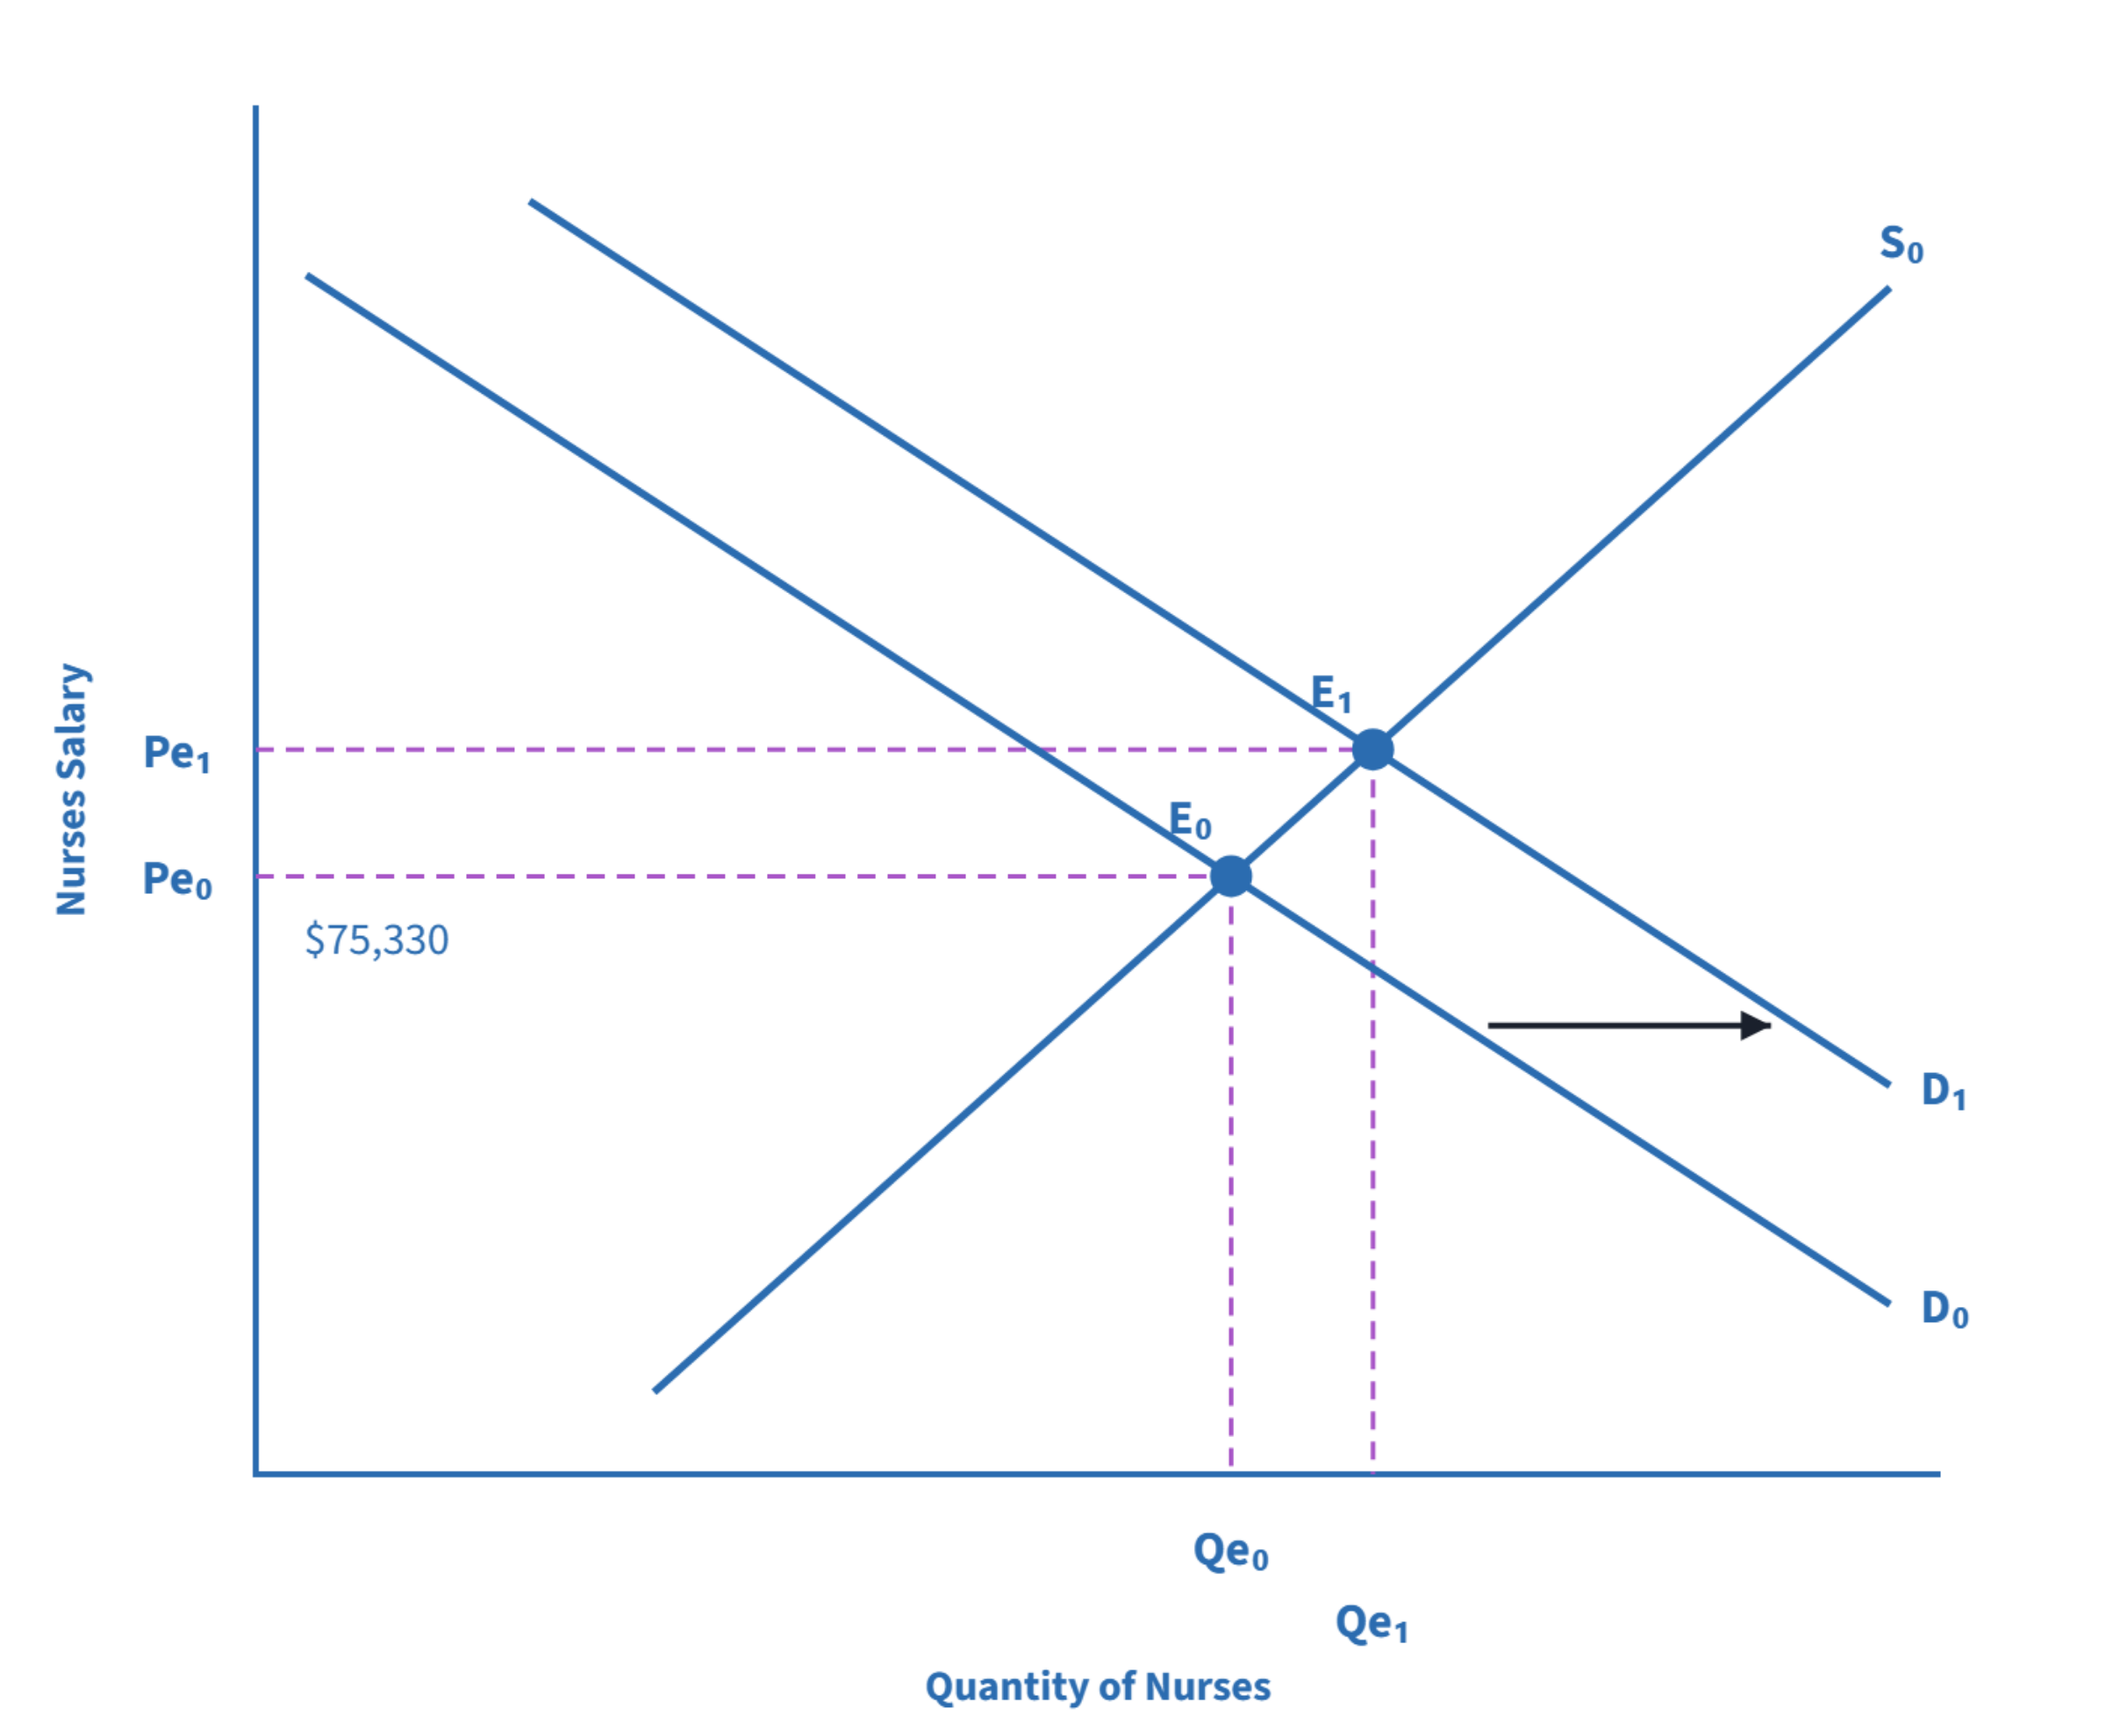
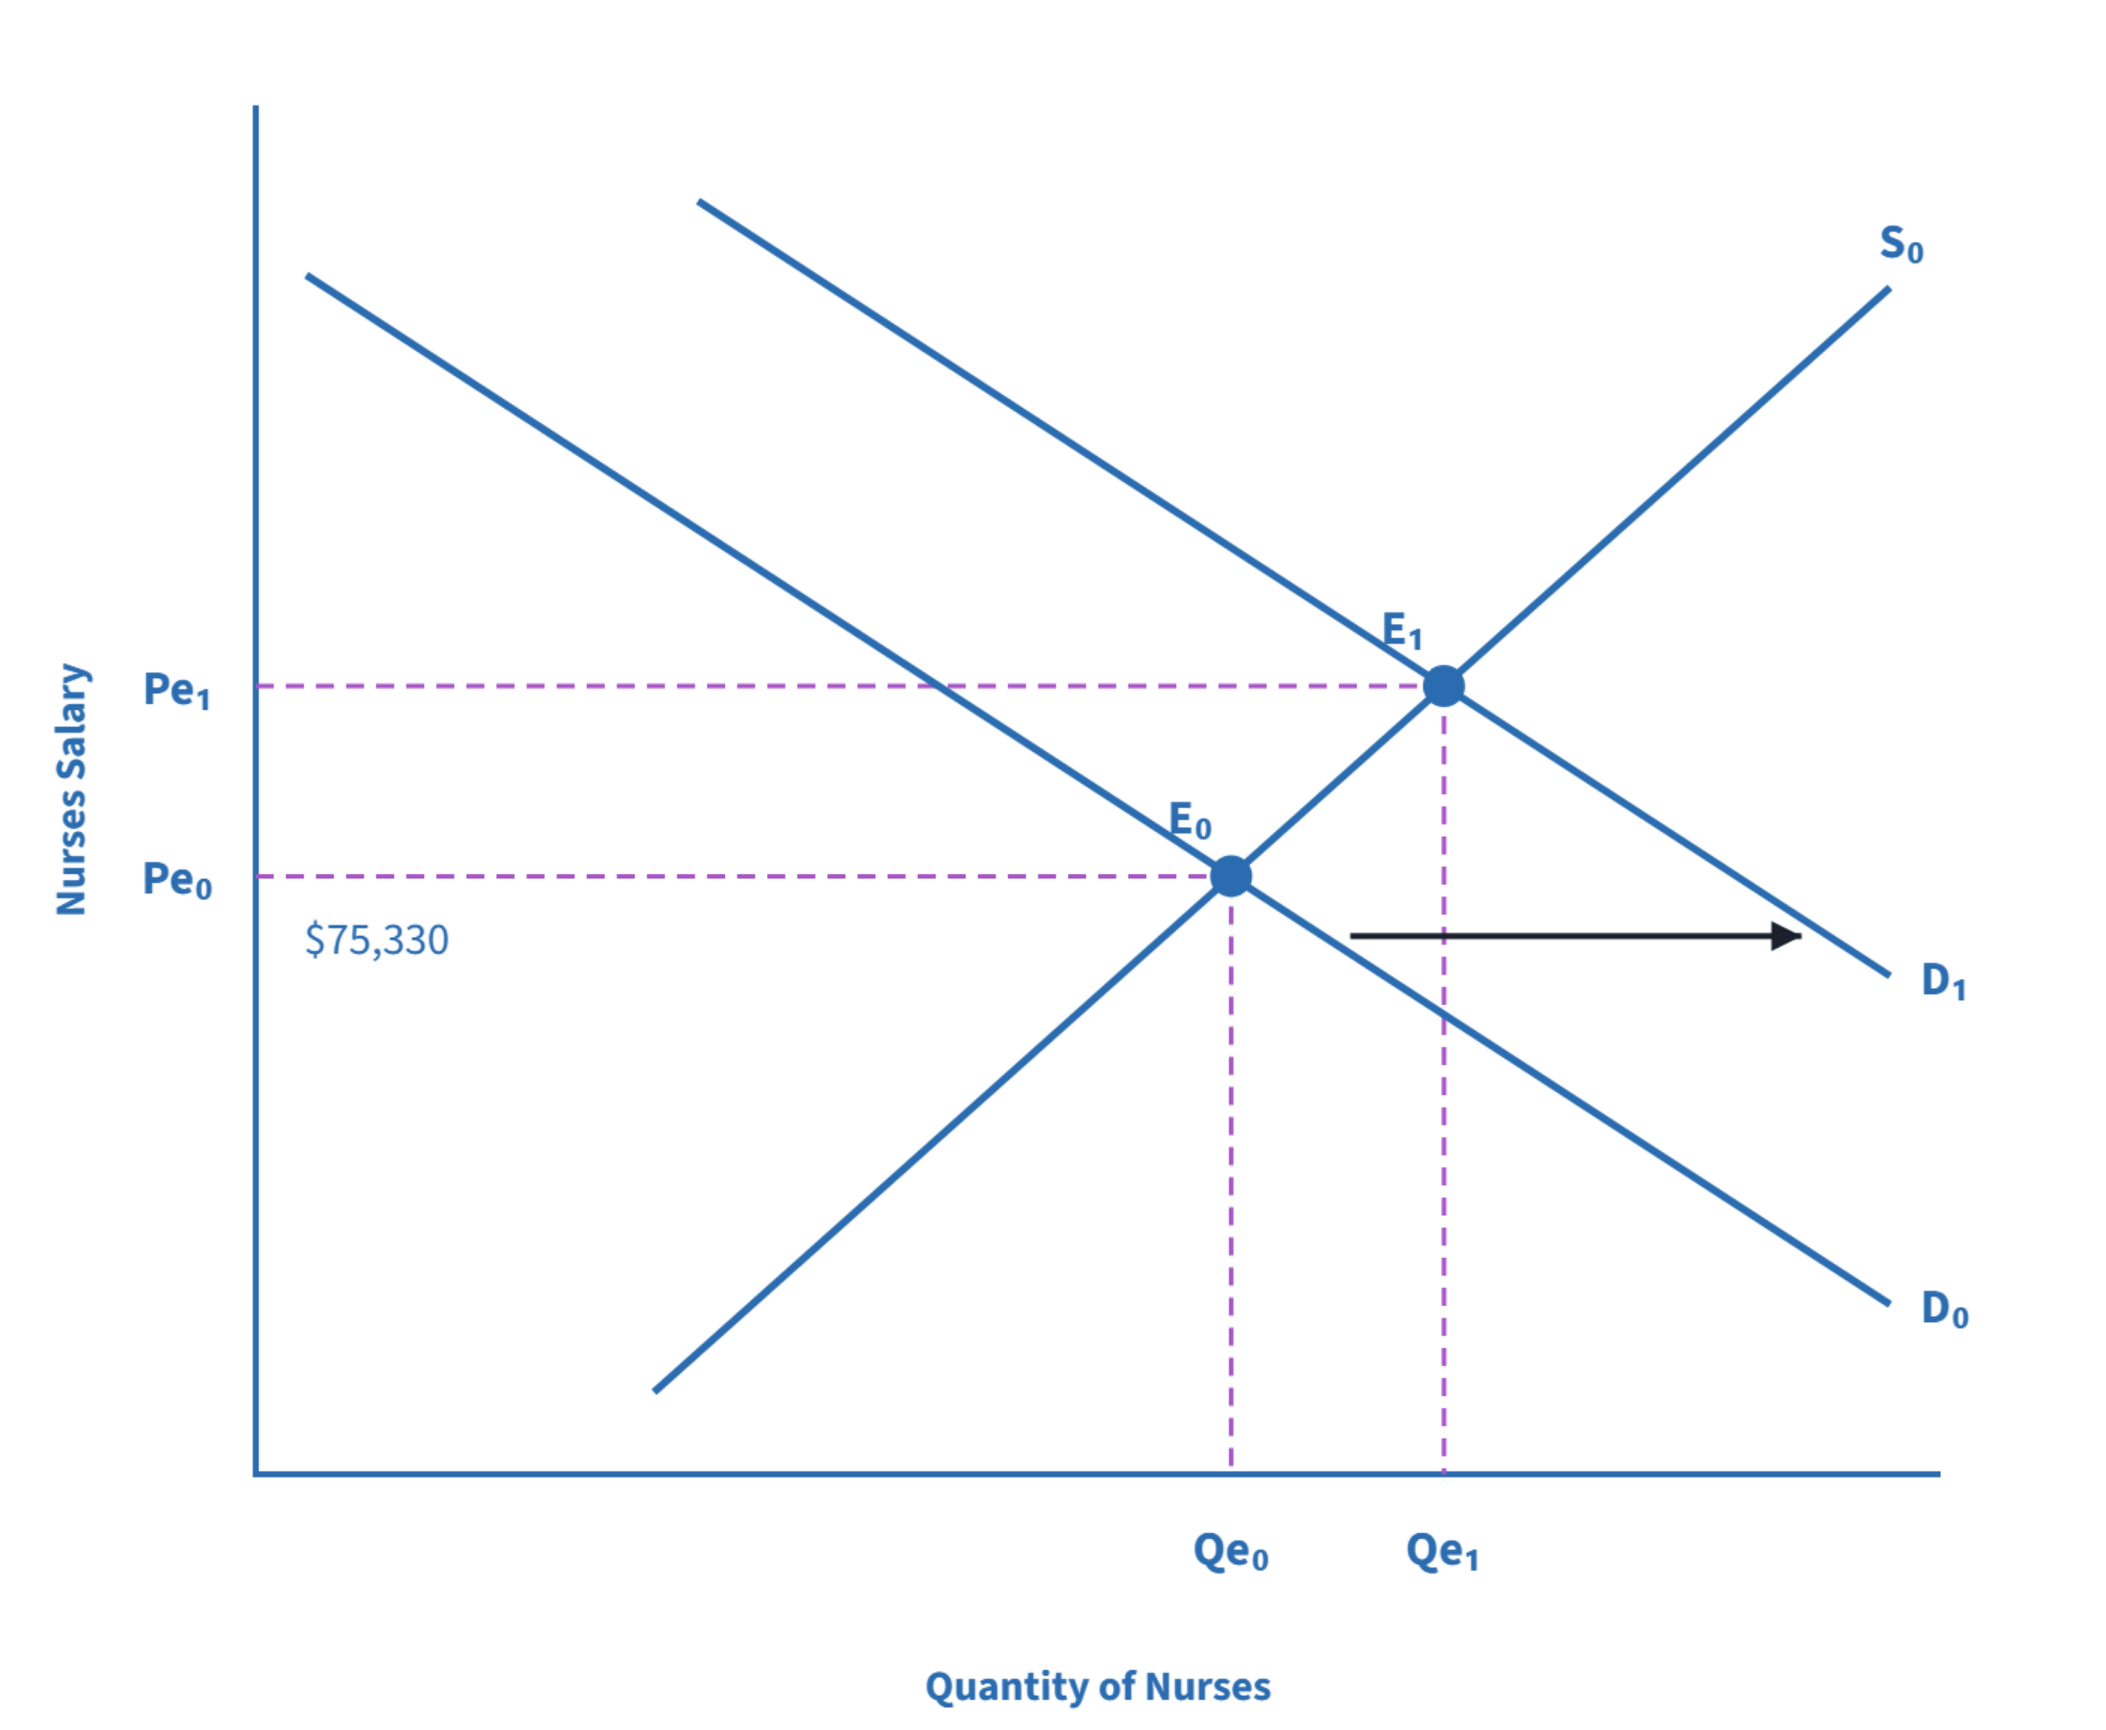
Rebuild book output

diff --git a/HTML_open_principles_of_microeconomics/apps/nurses_2030_textbook.html b/HTML_open_principles_of_microeconomics/apps/nurses_2030_textbook.html
@@ -79,8 +79,8 @@ new EconViz({
   downloadName: 'nurses_2030.png',
   axes: { xMin:0, xMax:10, yMin:0, yMax:10, margin:{top:70, right:110, bottom:170, left:170} },
   sliders: [
-    { id:'dq_d1', label:'Shift of demand (baby boomers)',  min:0,  max:4, value:2,    step:0.1, fmt:v => '+' + v.toFixed(1) },
-    { id:'dq_s1', label:'Shift of supply (retirements)',   min:-4, max:0, value:-0.8, step:0.1, fmt:v => v.toFixed(1) },
+    { id:'dq_d1', label:'Shift of demand (baby boomers)',  min:0,  max:4, value:3,    step:0.1, fmt:v => '+' + v.toFixed(1) },
+    { id:'dq_s1', label:'Shift of supply (retirements)',   min:-4, max:0, value:-1.1, step:0.1, fmt:v => v.toFixed(1) },
   ],
   toggles: [
     { id:'show_s1',         label:'S₁ (supply after retirements)' },
@@ -138,7 +138,7 @@ new EconViz({
         if (Math.min(a, b) < 0.3 || Math.max(a, b) > xMax - 0.3 || Math.abs(tCX(a) - tCX(b)) < 30 * S) return;
         g.drawArrow(tCX(a) - gp, tCY(p), tCX(b) + gp, tCY(p), INK);
       };
-      shift(D0, D1, e0.p * 0.75);
+      shift(D0, D1, e0.p * 0.9);
       if (showS1) shift(S0, S1, e1.p * 1.55);
     }
 
